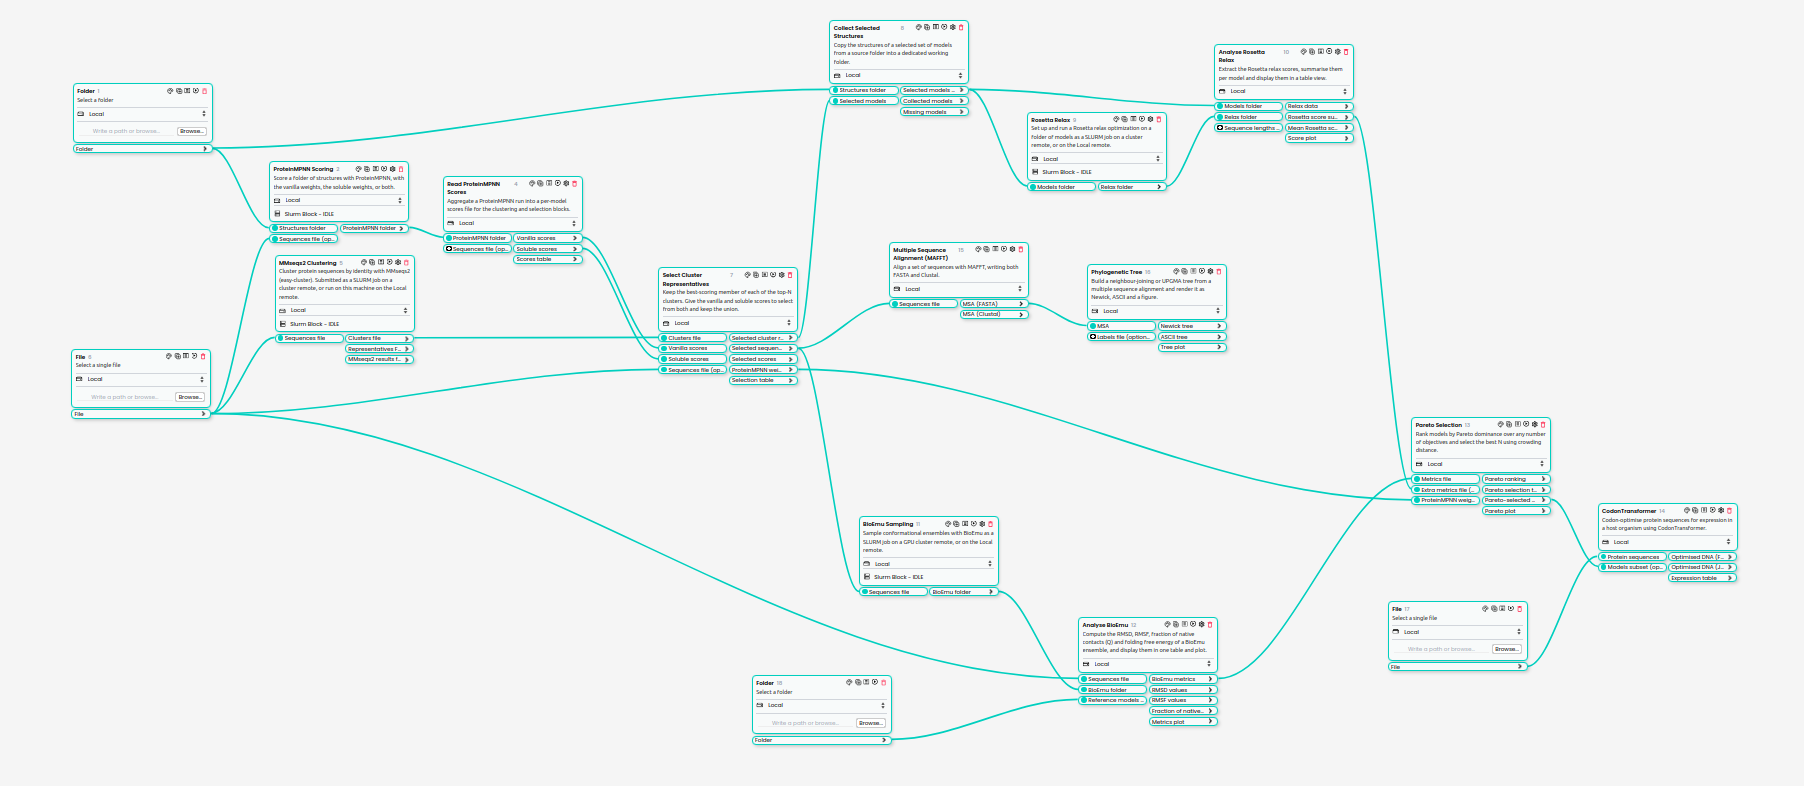
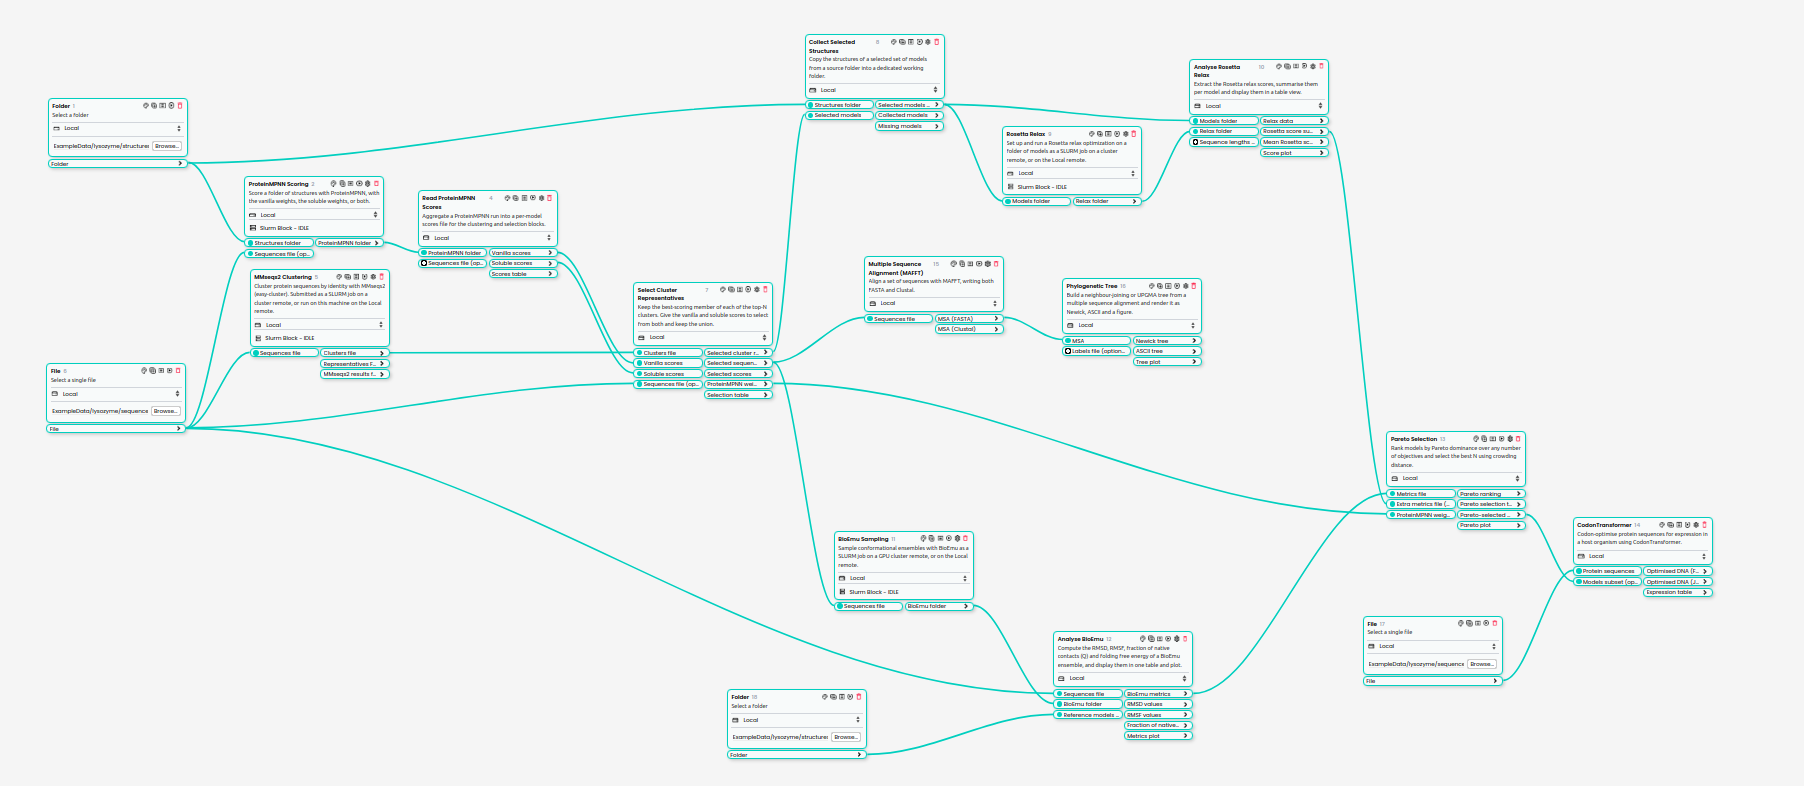
Name the preset's input blocks by what they hold
The workflow page called the preset's inputs Folder 1, File 6, Folder 18 and
File 17, after the canvas numbering. The diagram, the connections table and the
preset steps now call them Structures folder and Sequences file, with the
second copy of each marked as such. The screenshot is updated to the preset with
the example paths filled in.

diff --git a/docs/_ext/protselect_reference.py b/docs/_ext/protselect_reference.py
@@ -29,6 +29,9 @@ OUT = os.path.join(DOCS, "reference")
 PRESET_FLOW = os.path.join(os.path.dirname(DOCS), "ProtSelect", "Flows",
                            "ProteSel_Pipeline.flow")
 
+# In the preset, Horus's own input blocks carry the pipeline's two inputs.
+INPUT_BLOCK_LABELS = {"horus.folder": "Structures folder", "horus.file": "Sequences file"}
+
 # Pipeline order: the order a reader meets the blocks in the workflow.
 BLOCK_ORDER = [
     "proteinmpnn_scoring",
@@ -328,17 +331,16 @@ def _index_page(blocks):
 def _flow_diagram(flow_path):
     """
     A Mermaid flowchart of a saved flow: one node per block, one arrow per pair
-    of connected blocks. Horus's own input blocks (Folder, File) are numbered as
-    the canvas numbers them, since the preset has more than one of each.
+    of connected blocks. Horus's own input blocks (Folder, File) are named after
+    the input they hold.
     """
     with zipfile.ZipFile(flow_path) as archive:
         flow = json.loads(archive.read("flow.json"))
 
     names = {}
     for block in flow.get("blocks") or []:
-        name = _text(block.get("name")) or block.get("id")
-        if str(block.get("id", "")).startswith("horus."):
-            name = f"{name} {block.get('placedID')}"
+        name = (INPUT_BLOCK_LABELS.get(block.get("id")) or _text(block.get("name"))
+                or block.get("id"))
         names[block.get("placedID")] = name.replace('"', "'")
 
     edges = []

diff --git a/docs/workflow.rst b/docs/workflow.rst
@@ -127,14 +127,14 @@ The main connections:
 
    * - From
      - To
-   * - Folder 1 (structures)
+   * - Structures folder
      - ProteinMPNN Scoring, Collect Selected Structures
-   * - Folder 18 (the same structures)
+   * - Structures folder (second copy)
      - Analyse BioEmu
-   * - File 6 (sequences)
+   * - Sequences file
      - ProteinMPNN Scoring, MMseqs2 Clustering, Select Cluster Representatives,
        Analyse BioEmu
-   * - File 17 (the same sequences)
+   * - Sequences file (second copy)
      - CodonTransformer
    * - Read ProteinMPNN Scores: vanilla / soluble scores
      - Select Cluster Representatives
@@ -160,10 +160,11 @@ Running the preset
 
 1. The four input blocks come filled in with the lysozyme example
    (``ExampleData/lysozyme``), so the preset runs as it is. For your own data,
-   select your structures folder in both **Folder** blocks (1 and 18) and your
+   select your structures folder in both **Structures folder** blocks and your
    sequences file (FASTA or JSON, keyed by the structure file names) in both
-   **File** blocks (6 and 17). The second copy of each sits next to the block it
-   feeds, to keep the flow readable. See :doc:`example_data`.
+   **Sequences file** blocks. In the editor these are the two Folder and the two
+   File blocks; the second copy of each sits next to the block it feeds, to keep
+   the flow readable. See :doc:`example_data`.
 
    With the example paths, the Folder and File blocks print *"is not a folder
    on the local machine"* (or *"is not a file"*), and the file preview in the
